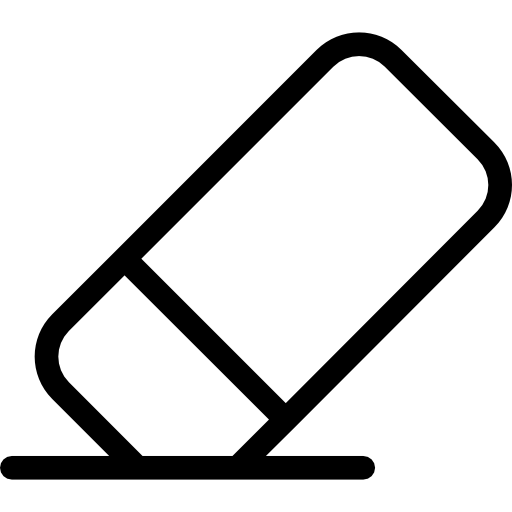
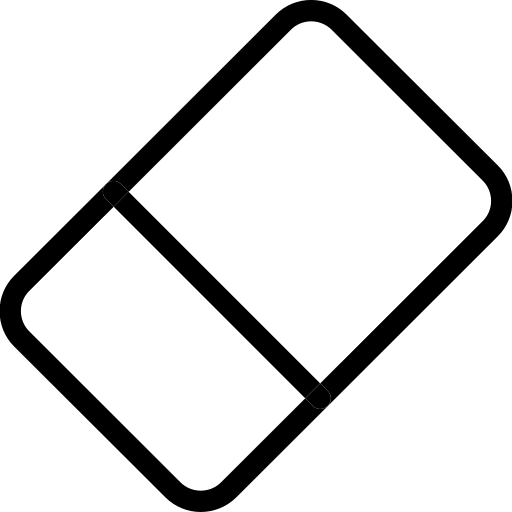
a

Changed region(s): [[0.0, 0.0, 1.0, 1.0]]

diff --git a/m0_RUN/ResourceDictionaryWhite.xaml b/m0_RUN/ResourceDictionaryWhite.xaml
@@ -3,6 +3,7 @@
                     xmlns:my="clr-namespace:m0.UIWpf.Visualisers;assembly=m0">    
     <Color x:Key="0Foreground">#000000</Color>
     <Color x:Key="0Background">#ffffff</Color>
+    <Color x:Key="0LightBackground">#f5f5f5</Color>
     <Color x:Key="0AlternatingBackground">#f0f0f0</Color>
     <Color x:Key="0Selection">#000000</Color>
     <Color x:Key="0Gray">#777777</Color>
@@ -17,6 +18,7 @@
 
     <SolidColorBrush x:Key="0ForegroundBrush" Color="{StaticResource 0Foreground}" />
     <SolidColorBrush x:Key="0BackgroundBrush" Color="{StaticResource 0Background}" />
+    <SolidColorBrush x:Key="0LightBackgroundBrush" Color="{StaticResource 0LightBackground}" />
     <SolidColorBrush x:Key="0AlternatingBackgroundBrush" Color="{StaticResource 0AlternatingBackground}" />
     <SolidColorBrush x:Key="0SelectionBrush" Color="{StaticResource 0Selection}" />
     <SolidColorBrush x:Key="0GrayBrush" Color="{StaticResource 0Gray}" />

diff --git a/m0_RUN/ResourceDictionaryBlack.xaml b/m0_RUN/ResourceDictionaryBlack.xaml
@@ -4,6 +4,7 @@
                     >
     <Color x:Key="0Foreground">#ffffff</Color>
     <Color x:Key="0Background">#000000</Color>
+    <Color x:Key="0LightBackground">#0a0a0a</Color>
     <Color x:Key="0AlternatingBackground">#3f3f3f</Color>
     <Color x:Key="0Selection">#ffffff</Color>
     <Color x:Key="0Gray">#bbbbbb</Color>
@@ -18,6 +19,7 @@
 
     <SolidColorBrush x:Key="0ForegroundBrush" Color="{StaticResource 0Foreground}" />
     <SolidColorBrush x:Key="0BackgroundBrush" Color="{StaticResource 0Background}" />
+    <SolidColorBrush x:Key="0LightBackgroundBrush" Color="{StaticResource 0LightBackground}" />
     <SolidColorBrush x:Key="0AlternatingBackgroundBrush" Color="{StaticResource 0AlternatingBackground}" />
     <SolidColorBrush x:Key="0SelectionBrush" Color="{StaticResource 0Selection}" />
     <SolidColorBrush x:Key="0GrayBrush" Color="{StaticResource 0Gray}" />

diff --git a/m0_COMPOSER/UIWpf/Visualisers/SequenceVisualiser.xaml.cs b/m0_COMPOSER/UIWpf/Visualisers/SequenceVisualiser.xaml.cs
@@ -55,20 +55,26 @@ namespace m0_COMPOSER.UIWpf.Visualisers
 
         enum CursorMode { Pen, Arrow, Eraser}
 
+        CursorMode currentCursorMode;
+
+        enum SnapToGrid { Bar1, Bar1_2, Bar1_4, Bar1_8, Bar1_16, Bar1_32}
+
+        SnapToGrid currentSnapToGrid;
+
         void SetCursorMode(CursorMode mode)
         {
             switch (mode)
             {
                 case CursorMode.Arrow:
-                    ZoomScrollView.ContentPresenter.Cursor = Cursors.Hand;
+                    currentCursorMode = CursorMode.Arrow;
                     break;
 
                 case CursorMode.Pen:
-                    ZoomScrollView.Scroll.Cursor = Cursors.Hand;
+                    currentCursorMode = CursorMode.Pen;
                     break;
 
                 case CursorMode.Eraser:
-                    ZoomScrollView.Scroll.Cursor = Cursors.Hand;
+                    currentCursorMode = CursorMode.Eraser;
                     break;
             }
         }
@@ -175,22 +181,37 @@ namespace m0_COMPOSER.UIWpf.Visualisers
 
         public void DrawMain()
         {
-            DrawBorder();
+            DrawBackground();
 
             DrawLines();
 
+            DrawBorder();
+
             DrawNotes();
+        }
+
+        void DrawBackground()
+        {
+            Border Background = new Border();
+
+            Background.Background = (Brush)FindResource("0LightBackgroundBrush");
+            
+            WpfUtil.SetPosition(Background, 0, 0, Main.Width, Main.Height);
+
+            Main.Children.Add(Background);
         }
 
         void DrawBorder()
         {
             PresenterBackground = new Border();
 
-            PresenterBackground.Background = new SolidColorBrush(Colors.AliceBlue);
+            PresenterBackground.Background = (Brush)FindResource("0LightBackgroundBrush");
 
             PresenterBackground.MouseEnter += PresenterBackground_MouseEnter;
 
             PresenterBackground.MouseLeave += PresenterBackground_MouseLeave;
+
+            PresenterBackground.Opacity = 0.01;
 
             WpfUtil.SetPosition(PresenterBackground, 0, 0, Main.Width, Main.Height);
 
@@ -199,12 +220,27 @@ namespace m0_COMPOSER.UIWpf.Visualisers
 
         private void PresenterBackground_MouseLeave(object sender, MouseEventArgs e)
         {
-            Mouse.OverrideCursor = Cursors.AppStarting;
+            WpfUtil.OverrideCursor(Cursors.Arrow);            
         }
 
         private void PresenterBackground_MouseEnter(object sender, MouseEventArgs e)
         {
-            Mouse.OverrideCursor = Cursors.Arrow;
+            switch (currentCursorMode)
+            {
+                case CursorMode.Arrow:
+                    WpfUtil.OverrideCursor(Cursors.Arrow);
+                    break;
+
+                case CursorMode.Eraser:
+                    WpfUtil.OverrideCursorFromResource("/m0;component/_resources/basic/eraser.cur");
+                    break;
+
+                case CursorMode.Pen:
+                    WpfUtil.OverrideCursorFromResource("/m0;component/_resources/basic/pen.cur");
+                    break;
+            }
+
+            
         }
 
         public void DrawLines()
@@ -238,6 +274,12 @@ namespace m0_COMPOSER.UIWpf.Visualisers
 
         }
 
+        void InitSequenceVisualierState()
+        {
+            SetCursorMode(CursorMode.Arrow);
+
+            currentSnapToGrid = SnapToGrid.Bar1;
+        }
 
         public SequenceVisualiser()
         {
@@ -280,6 +322,8 @@ namespace m0_COMPOSER.UIWpf.Visualisers
                 this.MouseEnter += dndMouseEnter;*/
 
                 ZoomScrollView.SetHost(this);
+
+                InitSequenceVisualierState();
             }
         }
 
@@ -357,7 +401,33 @@ namespace m0_COMPOSER.UIWpf.Visualisers
 
         private void SnapToGridComboBox_SelectionChanged(object sender, SelectionChangedEventArgs e)
         {
+            if(SnapToGridComboBox.SelectedItem != null && ((ComboBoxItem)SnapToGridComboBox.SelectedItem).Content != null)
+            switch (((ComboBoxItem)SnapToGridComboBox.SelectedItem).Content.ToString())
+            {
+                case "1 bar":
+                    currentSnapToGrid = SnapToGrid.Bar1;
+                    break;
 
+                case "1/2 bar":
+                    currentSnapToGrid = SnapToGrid.Bar1_2;
+                    break;
+
+                case "1/4 bar":
+                    currentSnapToGrid = SnapToGrid.Bar1_4;
+                    break;
+
+                case "1/8 bar":
+                    currentSnapToGrid = SnapToGrid.Bar1_8;
+                    break;
+
+                case "1/16 bar":
+                    currentSnapToGrid = SnapToGrid.Bar1_16;
+                    break;
+
+                case "1/32 bar":
+                    currentSnapToGrid = SnapToGrid.Bar1_32;
+                    break;
+            }
         }
 
         private void ExtendButton_Click(object sender, RoutedEventArgs e)

diff --git a/m0/UIWpf/WpfUtil.cs b/m0/UIWpf/WpfUtil.cs
@@ -32,6 +32,19 @@ namespace m0.UIWpf
             Dnd.MinimumVerticalDragDistance = SystemParameters.MinimumVerticalDragDistance * 2;
         }
 
+        public static void OverrideCursorFromResource(string resourceName)
+        {
+            System.Windows.Resources.StreamResourceInfo info = Application.GetResourceStream(new Uri(resourceName, UriKind.Relative));
+
+
+            Mouse.OverrideCursor = new System.Windows.Input.Cursor(info.Stream);
+        }
+
+        public static void OverrideCursor(Cursor cursor)
+        {
+            Mouse.OverrideCursor = cursor;
+        }
+
         public static Size MeasureTextBlock(TextBlock tb)
         {
             var formattedText = new FormattedText(
